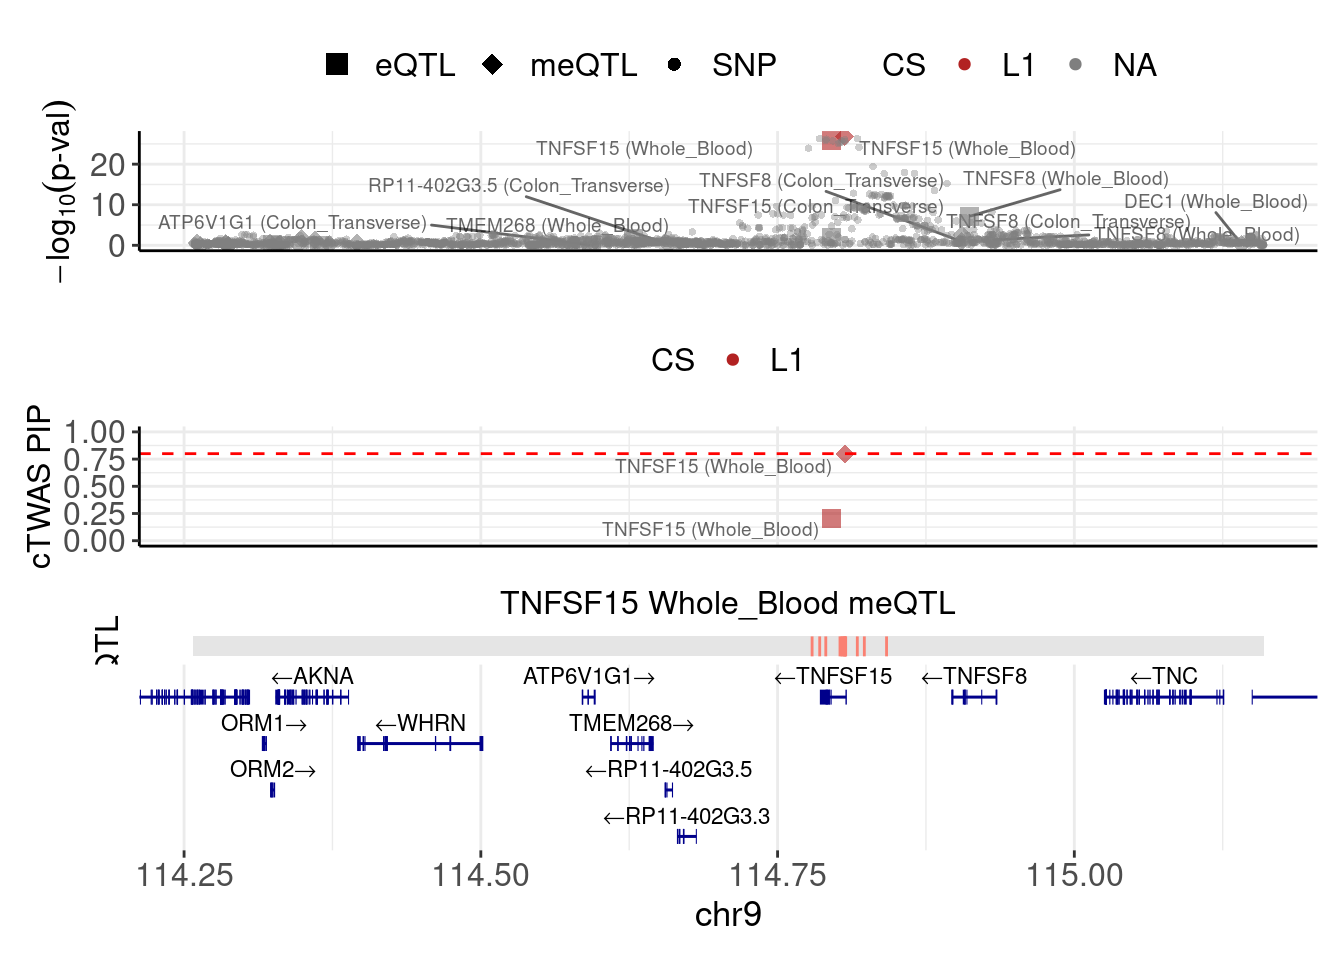
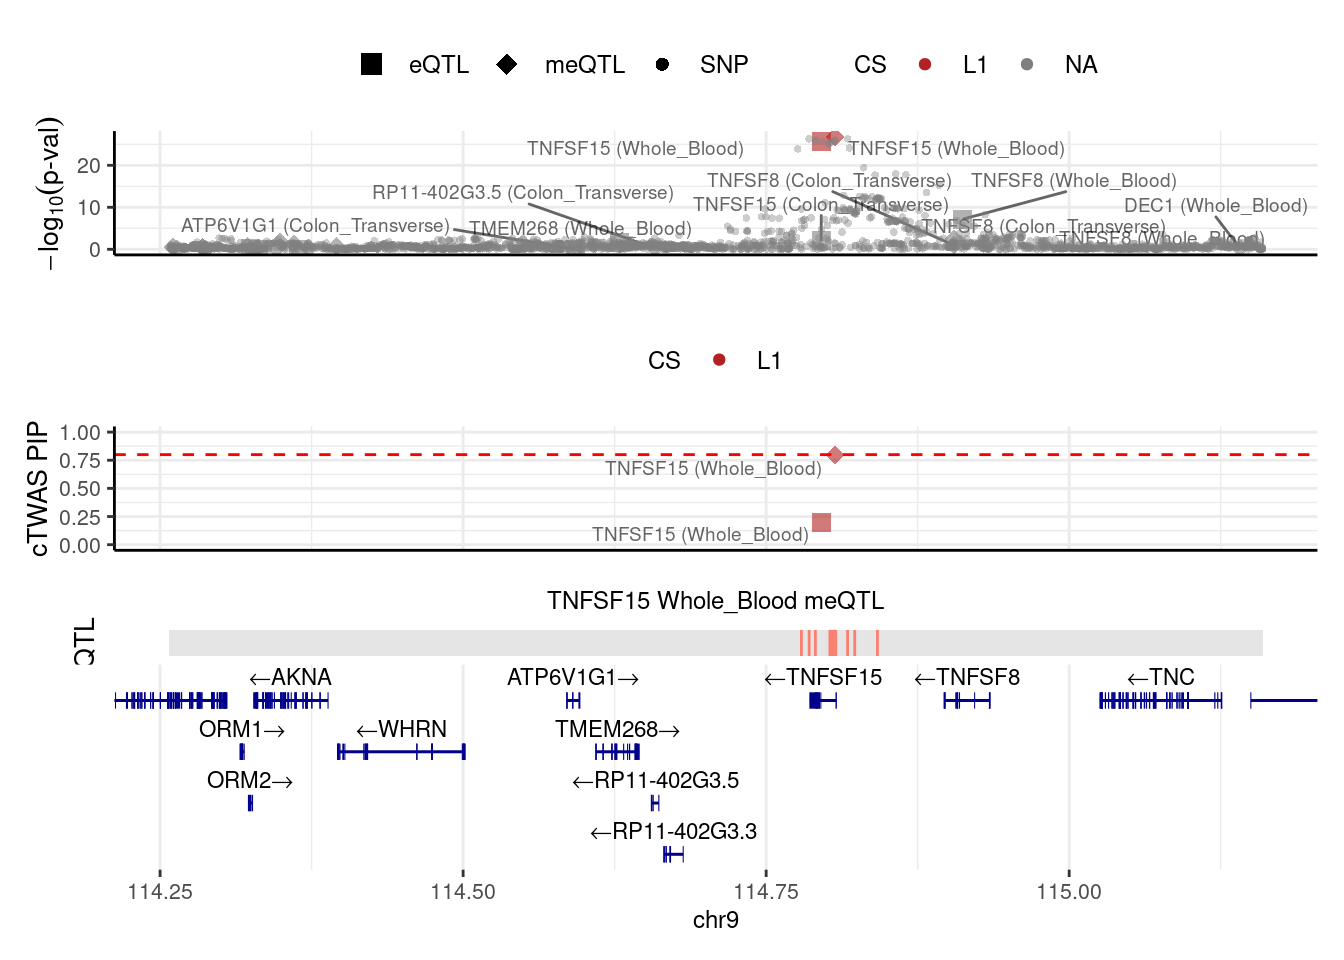
update

diff --git a/docs/methylation_analysis.html b/docs/methylation_analysis.html
@@ -475,16 +475,16 @@ This reproducible <a href="https://rmarkdown.rstudio.com">R Markdown</a> analysi
 <div class="panel panel-default">
 <div class="panel-heading">
 <p class="panel-title">
-<a data-toggle="collapse" data-parent="#workflowr-checks" href="#strongRepositoryversionstrongahrefhttpsgithubcomsq96multigroupctwasanalysistree064f877866e142c31ff648548f2c646d37bc68fetargetblank064f877a"> <span class="glyphicon glyphicon-ok text-success" aria-hidden="true"></span> <strong>Repository version:</strong> <a href="https://github.com/sq-96/multigroup_ctwas_analysis/tree/064f877866e142c31ff648548f2c646d37bc68fe" target="_blank">064f877</a> </a>
+<a data-toggle="collapse" data-parent="#workflowr-checks" href="#strongRepositoryversionstrongahrefhttpsgithubcomsq96multigroupctwasanalysistreeb59d4643b8cbb8378235f8a9a66c5af2f2ff411dtargetblankb59d464a"> <span class="glyphicon glyphicon-ok text-success" aria-hidden="true"></span> <strong>Repository version:</strong> <a href="https://github.com/sq-96/multigroup_ctwas_analysis/tree/b59d4643b8cbb8378235f8a9a66c5af2f2ff411d" target="_blank">b59d464</a> </a>
 </p>
 </div>
[2 lines of base64/hex data omitted]
 <div class="panel-body">
 <p>
 Great! You are using Git for version control. Tracking code development and connecting the code version to the results is critical for reproducibility.
 </p>
 <p>
-The results in this page were generated with repository version <a href="https://github.com/sq-96/multigroup_ctwas_analysis/tree/064f877866e142c31ff648548f2c646d37bc68fe" target="_blank">064f877</a>. See the <em>Past versions</em> tab to see a history of the changes made to the R Markdown and HTML files.
+The results in this page were generated with repository version <a href="https://github.com/sq-96/multigroup_ctwas_analysis/tree/b59d4643b8cbb8378235f8a9a66c5af2f2ff411d" target="_blank">b59d464</a>. See the <em>Past versions</em> tab to see a history of the changes made to the R Markdown and HTML files.
 </p>
 <p>
 Note that you need to be careful to ensure that all relevant files for the analysis have been committed to Git prior to generating the results (you can use <code>wflow_publish</code> or <code>wflow_git_commit</code>). workflowr only checks the R Markdown file, but you know if there are other scripts or data files that it depends on. Below is the status of the Git repository when the results were generated:
@@ -530,6 +530,40 @@ Message
 </tr>
 </thead>
 <tbody>
+<tr>
+<td>
+Rmd
+</td>
+<td>
+<a href="https://github.com/sq-96/multigroup_ctwas_analysis/blob/b59d4643b8cbb8378235f8a9a66c5af2f2ff411d/analysis/methylation_analysis.Rmd" target="_blank">b59d464</a>
+</td>
+<td>
+sq-96
+</td>
+<td>
+2024-11-25
+</td>
+<td>
+update
+</td>
+</tr>
+<tr>
+<td>
+html
+</td>
+<td>
+<a href="https://rawcdn.githack.com/sq-96/multigroup_ctwas_analysis/b59d4643b8cbb8378235f8a9a66c5af2f2ff411d/docs/methylation_analysis.html" target="_blank">b59d464</a>
+</td>
+<td>
+sq-96
+</td>
+<td>
+2024-11-25
+</td>
+<td>
+update
+</td>
+</tr>
 <tr>
 <td>
 Rmd
@@ -891,6 +925,17 @@ Date
 <tbody>
 <tr>
 <td>
+<a href="https://github.com/sq-96/multigroup_ctwas_analysis/blob/b59d4643b8cbb8378235f8a9a66c5af2f2ff411d/docs/figure/methylation_analysis.Rmd/unnamed-chunk-3-1.png" target="_blank">b59d464</a>
+</td>
+<td>
+sq-96
+</td>
+<td>
+2024-11-25
+</td>
+</tr>
+<tr>
+<td>
 <a href="https://github.com/sq-96/multigroup_ctwas_analysis/blob/064f877866e142c31ff648548f2c646d37bc68fe/docs/figure/methylation_analysis.Rmd/unnamed-chunk-3-1.png" target="_blank">064f877</a>
 </td>
 <td>
@@ -1158,6 +1203,17 @@ Date
 <tbody>
 <tr>
 <td>
+<a href="https://github.com/sq-96/multigroup_ctwas_analysis/blob/b59d4643b8cbb8378235f8a9a66c5af2f2ff411d/docs/figure/methylation_analysis.Rmd/unnamed-chunk-10-1.png" target="_blank">b59d464</a>
+</td>
+<td>
+sq-96
+</td>
+<td>
+2024-11-25
+</td>
+</tr>
+<tr>
+<td>
 <a href="https://github.com/sq-96/multigroup_ctwas_analysis/blob/064f877866e142c31ff648548f2c646d37bc68fe/docs/figure/methylation_analysis.Rmd/unnamed-chunk-10-1.png" target="_blank">064f877</a>
 </td>
 <td>
@@ -1222,6 +1278,17 @@ Date
 <tbody>
 <tr>
 <td>
+<a href="https://github.com/sq-96/multigroup_ctwas_analysis/blob/b59d4643b8cbb8378235f8a9a66c5af2f2ff411d/docs/figure/methylation_analysis.Rmd/unnamed-chunk-11-1.png" target="_blank">b59d464</a>
+</td>
+<td>
+sq-96
+</td>
+<td>
+2024-11-25
+</td>
+</tr>
+<tr>
+<td>
 <a href="https://github.com/sq-96/multigroup_ctwas_analysis/blob/064f877866e142c31ff648548f2c646d37bc68fe/docs/figure/methylation_analysis.Rmd/unnamed-chunk-11-1.png" target="_blank">064f877</a>
 </td>
 <td>
@@ -1259,21 +1326,15 @@ make_locusplot(finemap_res_multi,
                filter_protein_coding_genes = TRUE,
                filter_cs = TRUE,
                color_pval_by = &quot;cs&quot;,
-               color_pip_by = &quot;cs&quot;,
-               point.sizes = c(1, 3),
-               label.text.size = 2.5,
-               axis.text.size = 12,
-               axis.title.size = 12,
-               legend.text.size = 12,
-               panel.heights = c(4, 4, 1, 4))</code></pre>
-<pre><code>2024-11-25 12:09:17 INFO::Limit to protein coding genes
-2024-11-25 12:09:17 INFO::focal id: cg06629146|Whole_Blood_meQTL
-2024-11-25 12:09:17 INFO::focal molecular trait: TNFSF15 Whole_Blood meQTL
-2024-11-25 12:09:17 INFO::Range of locus: chr9:114257421-115159692</code></pre>
+               color_pip_by = &quot;cs&quot;)</code></pre>
+<pre><code>2024-11-25 12:42:00 INFO::Limit to protein coding genes
+2024-11-25 12:42:00 INFO::focal id: cg06629146|Whole_Blood_meQTL
+2024-11-25 12:42:00 INFO::focal molecular trait: TNFSF15 Whole_Blood meQTL
+2024-11-25 12:42:00 INFO::Range of locus: chr9:114257421-115159692</code></pre>
 <pre><code>chromosome 9, position 114257421 to 115159692</code></pre>
 <pre><code>2376 SNPs/datapoints</code></pre>
-<pre><code>2024-11-25 12:09:17 INFO::focal molecular trait QTL positions: 114779085,114785492,114790605,114802595,114804160,114804843,114806486,114806680,114806766,114807377,114817177,114823090,114841815
-2024-11-25 12:09:17 INFO::Limit PIPs to credible sets</code></pre>
+<pre><code>2024-11-25 12:42:04 INFO::focal molecular trait QTL positions: 114779085,114785492,114790605,114802595,114804160,114804843,114806486,114806680,114806766,114807377,114817177,114823090,114841815
+2024-11-25 12:42:04 INFO::Limit PIPs to credible sets</code></pre>
 <pre><code>Warning: ggrepel: 17 unlabeled data points (too many overlaps). Consider
 increasing max.overlaps</code></pre>
 <pre><code>Warning: ggrepel: 13 unlabeled data points (too many overlaps). Consider
@@ -1301,6 +1362,17 @@ Date
 </tr>
 </thead>
 <tbody>
+<tr>
+<td>
+<a href="https://github.com/sq-96/multigroup_ctwas_analysis/blob/b59d4643b8cbb8378235f8a9a66c5af2f2ff411d/docs/figure/methylation_analysis.Rmd/unnamed-chunk-13-1.png" target="_blank">b59d464</a>
+</td>
+<td>
+sq-96
+</td>
+<td>
+2024-11-25
+</td>
+</tr>
 <tr>
 <td>
 <a href="https://github.com/sq-96/multigroup_ctwas_analysis/blob/064f877866e142c31ff648548f2c646d37bc68fe/docs/figure/methylation_analysis.Rmd/unnamed-chunk-13-1.png" target="_blank">064f877</a>
